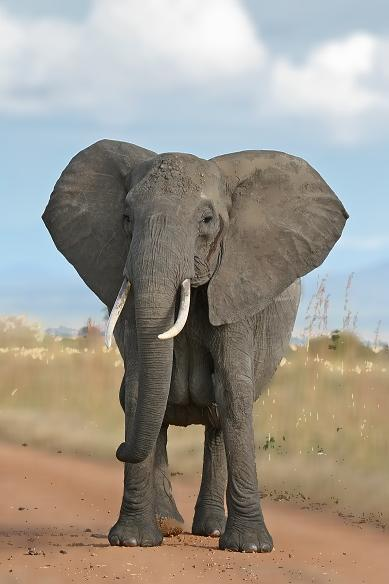
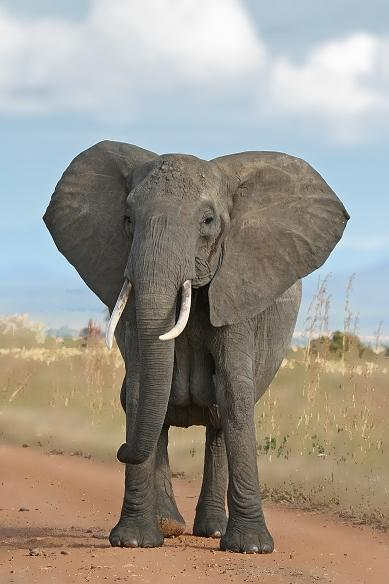
Apply filter

diff --git a/code/sequential/main.c b/code/sequential/main.c
@@ -292,14 +292,26 @@ int main(void) {
             blurData[row*width + col].blue = (unsigned char) (blue / count);
         }
     }
+    // Put filter on mask
+    for (i = 0; i < height; i++) {
+        for (j = 0; j < width; j++) {
+            if (mask[i*width + j] == 1) {
+                PPMPixel *pt = getPixel(j, i, img);
+                blurData[i*width + j].red = pt->red;
+                blurData[i*width + j].green = pt->green;
+                blurData[i*width + j].blue = pt->blue;
+            }
+        }
+    }
+
     PPMPixel *oldData = img->data;
     img->data = blurData;
-    free(oldData);
 
     strcpy(guy, base);
-    strcat(guy, "_blurred.ppm");
+    strcat(guy, "_portrait.ppm");
     writePPM(guy, img);
 
+    free(oldData);
     free(color_counts);
     free(blurKernel);
     free(img);
